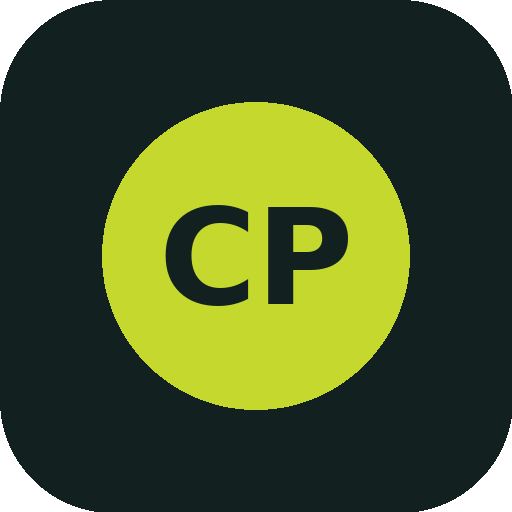
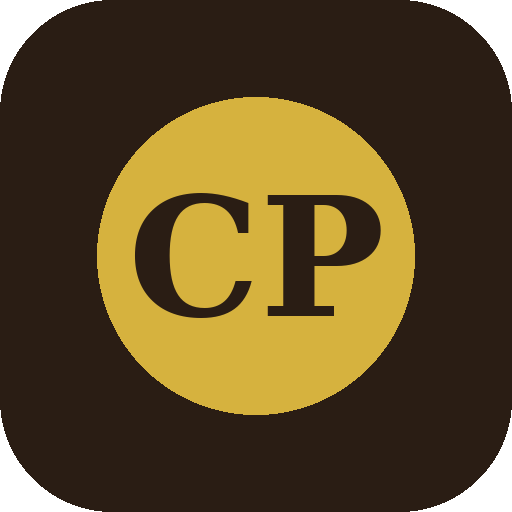
Fase 4: PWA se siente nativa (manifest, comportamiento, offline)
- manifest y meta theme-color: café/crema de marca en vez del verde de una
  paleta anterior; íconos (192/512/512-maskable/apple-touch) regenerados
  a la misma paleta — antes eran verde+lima, ajenos a "Cancha de arcilla".
- CSS: quita el resaltado gris al tap, desactiva selección de texto en
  botones/nav/labels (no en notas/comentarios), reemplaza outline:none por
  :focus-visible con anillo de marca, y controla overscroll-behavior para
  evitar el rebote de scroll.
- Service worker: pasa de generateSW a injectManifest (mismo plugin, sin
  dependencias nuevas) para poder mostrar una pantalla de "sin conexión"
  con marca como último recurso, sin dejar de servir el shell cacheado
  cuando ya se visitó antes. De paso cachea Google Fonts para que no
  cambien de tipografía sin señal.

Changed region(s): [[0.1875, 0.1875, 0.8125, 0.8125], [0.9375, 0.9062, 0.9688, 0.9375], [0.9062, 0.9375, 0.9375, 0.9688]]

diff --git a/src/styles.js b/src/styles.js
@@ -2,10 +2,32 @@ import { COLORS, ELEVATION } from "./constants.js";
 
 export const fontImport = `
   @import url('https://fonts.googleapis.com/css2?family=Fraunces:wght@600;700&family=Karla:wght@400;500;700&family=JetBrains+Mono:wght@500;700&display=swap');
-  * { box-sizing: border-box; }
+  * { box-sizing: border-box; -webkit-tap-highlight-color: transparent; }
   html, body, #root { height: 100%; }
+  html, body { overscroll-behavior: none; }
   body { margin: 0; }
-  input, textarea, select, button { -webkit-tap-highlight-color: transparent; }
+
+  /* Elementos de interfaz (botones, nav, headers) no son texto para
+     seleccionar/copiar — el contenido real (notas, comentarios) no lleva
+     esta regla, así que se queda seleccionable donde importa. */
+  button, .header-safe {
+    -webkit-touch-callout: none;
+    -webkit-user-select: none;
+    user-select: none;
+  }
+  .header-safe input, .header-safe textarea {
+    -webkit-user-select: text;
+    user-select: text;
+  }
+
+  /* Anillo de foco propio en vez de quitarlo — solo aparece con teclado
+     (:focus-visible), no en cada tap. */
+  :focus { outline: none; }
+  :focus-visible {
+    outline: 2px solid ${COLORS.clay};
+    outline-offset: 2px;
+    border-radius: 4px;
+  }
 
   @media (max-width: 480px) {
     .app-shell { padding: 0 !important; align-items: stretch !important; }
@@ -37,7 +59,7 @@ export const styles = {
   backBtn: { background: "none", border: "none", color: COLORS.bg, fontSize: 13, cursor: "pointer", padding: 0, opacity: 0.85, fontFamily: "'Karla', sans-serif" },
   brand: { fontFamily: "'Fraunces', serif", fontWeight: 700, fontSize: 12, letterSpacing: 2, opacity: 0.8 },
   titulo: { fontFamily: "'Fraunces', serif", fontWeight: 700, fontSize: 24, marginTop: 8, marginBottom: 14 },
-  search: { width: "100%", padding: "10px 12px", borderRadius: 10, border: "1px solid rgba(255,255,255,0.15)", background: "rgba(255,255,255,0.06)", color: COLORS.bg, fontSize: 13.5, fontFamily: "'Karla', sans-serif", outline: "none", marginBottom: 16 },
+  search: { width: "100%", padding: "10px 12px", borderRadius: 10, border: "1px solid rgba(255,255,255,0.15)", background: "rgba(255,255,255,0.06)", color: COLORS.bg, fontSize: 13.5, fontFamily: "'Karla', sans-serif", marginBottom: 16 },
   playerRow: { display: "flex", alignItems: "center", gap: 14, paddingBottom: 16 },
   avatarBig: { width: 50, height: 50, borderRadius: "50%", background: COLORS.ball, color: COLORS.ink, display: "flex", alignItems: "center", justifyContent: "center", fontWeight: 700, fontSize: 16, fontFamily: "'Fraunces', serif", flexShrink: 0 },
   playerName: { fontFamily: "'Fraunces', serif", fontWeight: 700, fontSize: 19 },
@@ -48,10 +70,10 @@ export const styles = {
   tabs: { display: "flex", background: COLORS.bg, borderBottom: `1px solid ${COLORS.border}`, padding: "0 14px", overflowX: "auto", whiteSpace: "nowrap" },
   tabBtn: { background: "none", border: "none", padding: "13px 0", marginRight: 18, fontSize: 13.5, cursor: "pointer", position: "relative", fontFamily: "'Karla', sans-serif", flexShrink: 0 },
   tabIndicator: { position: "absolute", bottom: -1, left: 0, right: 0, height: 3, background: COLORS.clay, borderRadius: 2 },
-  content: { flex: 1, overflowY: "auto", padding: "16px 18px 30px", WebkitOverflowScrolling: "touch" },
+  content: { flex: 1, overflowY: "auto", padding: "16px 18px 30px", WebkitOverflowScrolling: "touch", overscrollBehavior: "contain" },
   section: { display: "flex", flexDirection: "column", gap: 12 },
   card: { background: COLORS.card, border: `1px solid ${COLORS.border}`, borderRadius: 14, padding: 14 },
-  cardLabel: { fontSize: 10.5, letterSpacing: 1, color: COLORS.muted, fontWeight: 700, marginBottom: 8, textTransform: "uppercase" },
+  cardLabel: { fontSize: 10.5, letterSpacing: 1, color: COLORS.muted, fontWeight: 700, marginBottom: 8, textTransform: "uppercase", userSelect: "none" },
   row: { display: "flex", alignItems: "center", gap: 12, background: COLORS.card, border: `1.5px solid ${COLORS.border}`, borderRadius: 14, padding: 12, cursor: "pointer", width: "100%", fontFamily: "'Karla', sans-serif" },
   avatar: { width: 40, height: 40, borderRadius: "50%", background: "#F0E4D2", color: COLORS.ink, display: "flex", alignItems: "center", justifyContent: "center", fontWeight: 700, fontSize: 13, fontFamily: "'Fraunces', serif", flexShrink: 0 },
   nombre: { fontSize: 14, fontWeight: 700, color: COLORS.ink },
@@ -123,8 +145,8 @@ export const styles = {
   noteAuthor: { fontSize: 13, fontWeight: 700, color: COLORS.ink },
   noteDate: { fontFamily: "'JetBrains Mono', monospace", fontSize: 11, color: COLORS.muted },
   noteText: { fontSize: 13, color: "#4A3F35", marginTop: 4, lineHeight: 1.5 },
-  input: { width: "100%", padding: "9px 10px", borderRadius: 9, border: `1px solid ${COLORS.border}`, fontSize: 13, fontFamily: "'Karla', sans-serif", marginBottom: 7, outline: "none", color: COLORS.ink },
-  textarea: { width: "100%", padding: "9px 10px", borderRadius: 9, border: `1px solid ${COLORS.border}`, fontSize: 13, fontFamily: "'Karla', sans-serif", marginBottom: 7, outline: "none", minHeight: 60, resize: "vertical", color: COLORS.ink },
+  input: { width: "100%", padding: "9px 10px", borderRadius: 9, border: `1px solid ${COLORS.border}`, fontSize: 13, fontFamily: "'Karla', sans-serif", marginBottom: 7, color: COLORS.ink },
+  textarea: { width: "100%", padding: "9px 10px", borderRadius: 9, border: `1px solid ${COLORS.border}`, fontSize: 13, fontFamily: "'Karla', sans-serif", marginBottom: 7, minHeight: 60, resize: "vertical", color: COLORS.ink },
   select: { padding: "9px 8px", borderRadius: 9, border: `1px solid ${COLORS.border}`, fontSize: 12.5, fontFamily: "'Karla', sans-serif", marginBottom: 7, color: COLORS.ink, background: "#fff" },
   miniForm: { marginTop: 10, borderTop: `1px solid ${COLORS.border}`, paddingTop: 10 },
   addBtn: { background: COLORS.clay, color: COLORS.card, border: "none", borderRadius: 9, padding: "9px 0", fontSize: 12.5, fontWeight: 700, cursor: "pointer", fontFamily: "'Karla', sans-serif", width: "100%" },

diff --git a/public/offline.html b/public/offline.html
@@ -1,0 +1,86 @@
+<!doctype html>
+<html lang="es-MX">
+  <head>
+    <meta charset="UTF-8" />
+    <meta name="viewport" content="width=device-width, initial-scale=1, maximum-scale=1, viewport-fit=cover" />
+    <meta name="theme-color" content="#2A1D14" />
+    <title>Country Padel — Sin conexión</title>
+    <style>
+      * { box-sizing: border-box; }
+      html, body { height: 100%; margin: 0; }
+      body {
+        display: flex;
+        align-items: center;
+        justify-content: center;
+        background: #1C130D;
+        font-family: Georgia, "Times New Roman", serif;
+        padding: 24px;
+      }
+      .card {
+        width: 100%;
+        max-width: 360px;
+        background: #F5EEE2;
+        border-radius: 24px;
+        padding: 40px 28px 32px;
+        text-align: center;
+        box-shadow: 0 20px 48px rgba(42, 29, 20, 0.4);
+      }
+      .brand {
+        font-family: -apple-system, BlinkMacSystemFont, "Segoe UI", sans-serif;
+        font-weight: 700;
+        font-size: 12px;
+        letter-spacing: 2px;
+        color: #8C7862;
+        margin-bottom: 22px;
+      }
+      .icon {
+        width: 52px;
+        height: 52px;
+        margin: 0 auto 18px;
+        color: #B24A28;
+      }
+      h1 {
+        margin: 0 0 10px;
+        font-size: 22px;
+        color: #2A1D14;
+      }
+      p {
+        margin: 0 0 26px;
+        font-family: -apple-system, BlinkMacSystemFont, "Segoe UI", sans-serif;
+        font-size: 14px;
+        line-height: 1.6;
+        color: #4A3F35;
+      }
+      button {
+        font-family: -apple-system, BlinkMacSystemFont, "Segoe UI", sans-serif;
+        font-weight: 700;
+        font-size: 13px;
+        color: #FFFDF8;
+        background: #B24A28;
+        border: none;
+        border-radius: 10px;
+        padding: 12px 0;
+        width: 100%;
+        cursor: pointer;
+        -webkit-tap-highlight-color: transparent;
+      }
+    </style>
+  </head>
+  <body>
+    <div class="card">
+      <div class="brand">COUNTRY PADEL</div>
+      <svg class="icon" viewBox="0 0 24 24" fill="none" stroke="currentColor" stroke-width="1.75" stroke-linecap="round" stroke-linejoin="round">
+        <line x1="2" y1="2" x2="22" y2="22" />
+        <path d="M8.5 16.5a5 5 0 0 1 7 0" />
+        <path d="M5 13a10 10 0 0 1 5.17-2.74" />
+        <path d="M19 13a9.97 9.97 0 0 0 -2.5 -4" />
+        <path d="M2 8.82a15 15 0 0 1 4.17 -2.65" />
+        <path d="M10.66 5.02a15 15 0 0 1 11.34 3.8" />
+        <line x1="12" y1="20" x2="12.01" y2="20" />
+      </svg>
+      <h1>Sin conexión</h1>
+      <p>No encontramos internet en este momento. Cuando vuelvas a tener señal, la app se sincroniza sola.</p>
+      <button onclick="location.reload()">Reintentar</button>
+    </div>
+  </body>
+</html>

diff --git a/vite.config.js b/vite.config.js
@@ -12,13 +12,21 @@ export default defineConfig({
     react(),
     VitePWA({
       registerType: "autoUpdate",
-      includeAssets: ["apple-touch-icon.png"],
+      includeAssets: ["apple-touch-icon.png", "offline.html"],
+      strategies: "injectManifest",
+      srcDir: "src",
+      filename: "sw.js",
+      injectManifest: {
+        globPatterns: ["**/*.{js,css,html,png,svg,ico}"],
+      },
       manifest: {
         name: "Country Padel",
         short_name: "Country Padel",
         description: "Gestión de alumnos, entrenamientos, asistencia y partidos.",
-        theme_color: "#12211F",
-        background_color: "#0F1E1C",
+        // Paleta "Cancha de arcilla": café oscuro de marca (COLORS.ink) y
+        // crema de fondo (COLORS.bg) — antes tenía verde de una paleta vieja.
+        theme_color: "#2A1D14",
+        background_color: "#F5EEE2",
         display: "standalone",
         orientation: "portrait",
         start_url: base,
@@ -28,9 +36,6 @@ export default defineConfig({
           { src: "icon-512.png", sizes: "512x512", type: "image/png" },
           { src: "icon-512-maskable.png", sizes: "512x512", type: "image/png", purpose: "maskable" },
         ],
-      },
-      workbox: {
-        globPatterns: ["**/*.{js,css,html,png,svg,ico}"],
       },
     }),
   ],

diff --git a/src/sw.js b/src/sw.js
@@ -1,0 +1,29 @@
+import { precacheAndRoute, matchPrecache, cleanupOutdatedCaches } from "workbox-precaching";
+import { setCatchHandler } from "workbox-routing";
+import { googleFontsCache } from "workbox-recipes";
+
+self.skipWaiting();
+cleanupOutdatedCaches();
+
+// Precachea el shell de la app (JS/CSS/HTML/íconos) — build-time, inyectado
+// por vite-plugin-pwa. Con esto, visitas repetidas cargan directo del caché,
+// sin esperar red.
+precacheAndRoute(self.__WB_MANIFEST);
+
+self.addEventListener("activate", (event) => event.waitUntil(self.clients.claim()));
+
+// Las fuentes de Google Fonts se sirven aparte (dominio distinto) — sin
+// esto, cada carga sin red cae a la fuente del sistema.
+googleFontsCache();
+
+// Último recurso: si una navegación no puede resolverse ni por red ni por
+// caché (nada previamente visitado), muestra la pantalla de "sin conexión"
+// con la marca en vez del error nativo del navegador. El caso normal —app
+// ya visitada antes, ahora sin señal— ya se resuelve arriba: el shell sale
+// del precache y los datos vienen del caché local de Firestore.
+setCatchHandler(async ({ event }) => {
+  if (event.request.destination === "document") {
+    return (await matchPrecache("offline.html")) || Response.error();
+  }
+  return Response.error();
+});

diff --git a/index.html b/index.html
@@ -3,7 +3,7 @@
   <head>
     <meta charset="UTF-8" />
     <meta name="viewport" content="width=device-width, initial-scale=1, maximum-scale=1, viewport-fit=cover" />
-    <meta name="theme-color" content="#12211F" />
+    <meta name="theme-color" content="#2A1D14" />
     <meta name="mobile-web-app-capable" content="yes" />
     <meta name="apple-mobile-web-app-capable" content="yes" />
     <meta name="apple-mobile-web-app-status-bar-style" content="black-translucent" />
